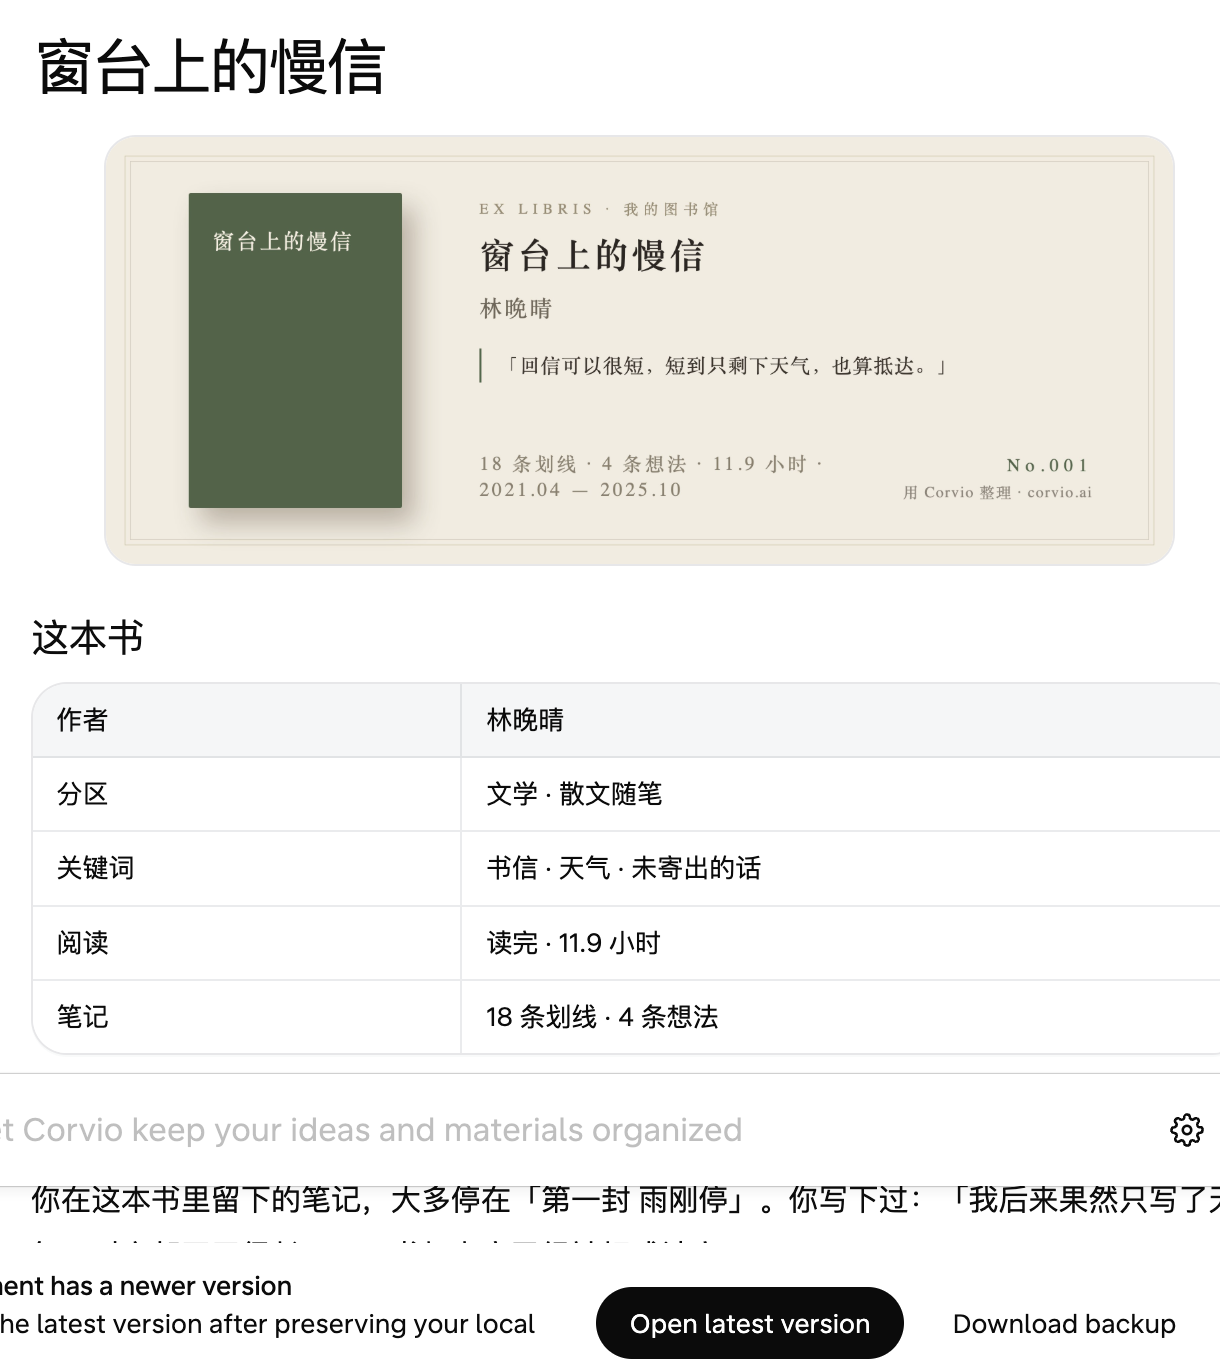
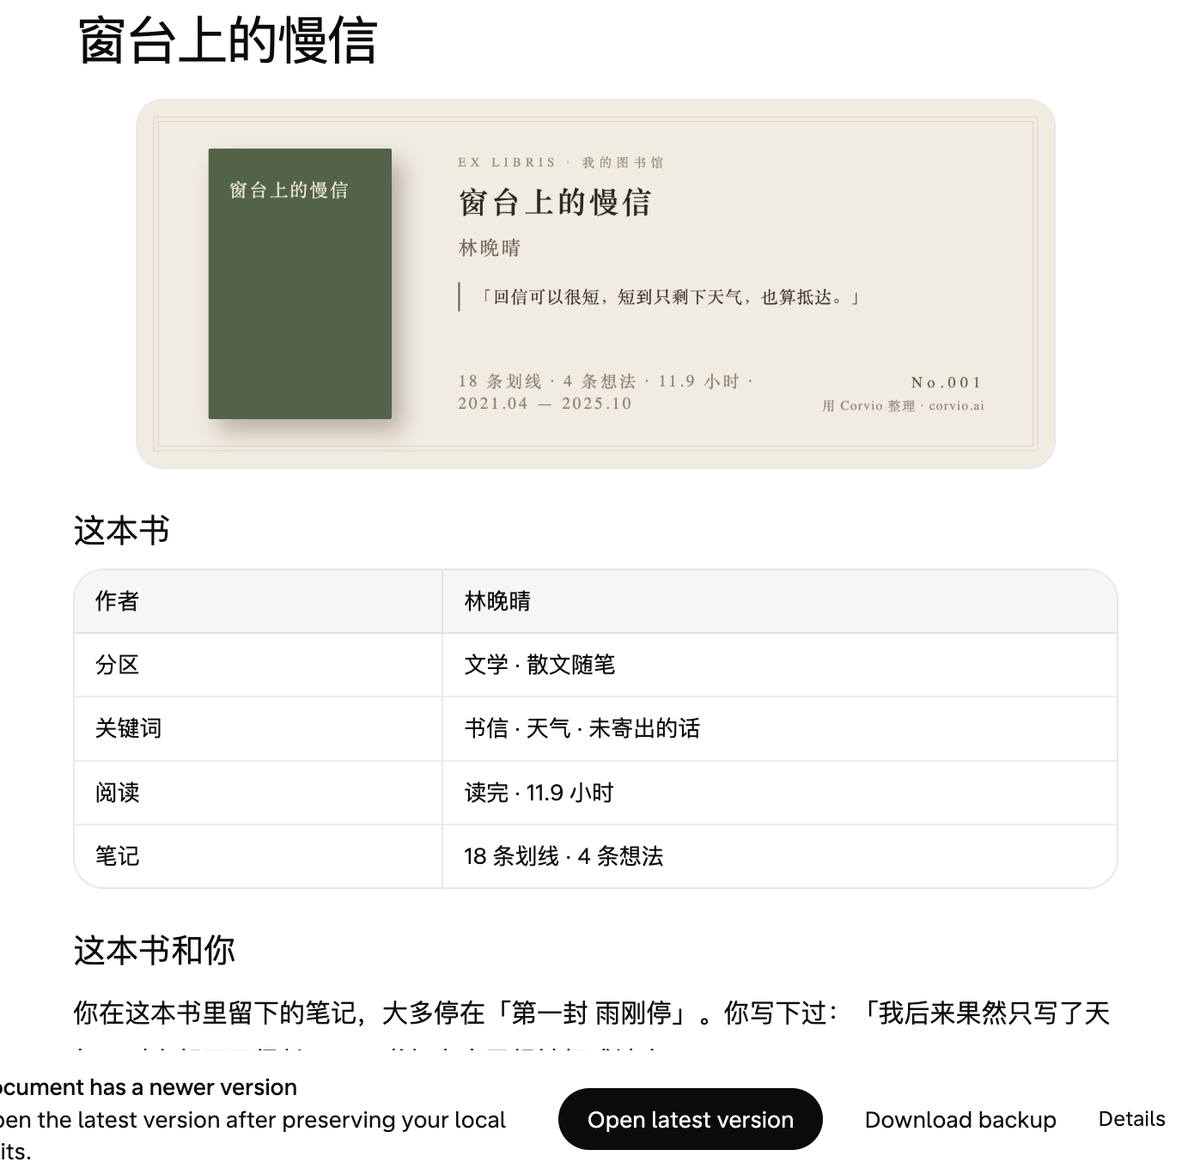
补充截图

diff --git a/scripts/save_key.py b/scripts/save_key.py
@@ -2,9 +2,10 @@
 """从剪贴板读取微信读书 Key，写到 ~/.config/weread-library/key。不会打印 Key。"""
 import argparse, os, re, subprocess, sys
 
-KEY_RE = re.compile(r"wrk-[A-Za-z0-9_.-]+")
+KEY_PREFIX = "".join(map(chr, (119, 114, 107, 45)))
+KEY_RE = re.compile(re.escape(KEY_PREFIX) + r"[A-Za-z0-9_.-]+")
 KEY_PATH = os.path.expanduser("~/.config/weread-library/key")
-MANUAL = ("mkdir -p ~/.config/weread-library && printf '%s' 'wrk-你的Key' "
+MANUAL = (f"mkdir -p ~/.config/weread-library && printf '%s' '{KEY_PREFIX}你的Key' "
           "> ~/.config/weread-library/key && chmod 600 ~/.config/weread-library/key")
 
 
@@ -58,7 +59,7 @@ def main():
         sys.exit(1)
     m = KEY_RE.search(text)
     if not m:
-        print("剪贴板里没有找到以 wrk- 开头的 Key。请在 https://weread.qq.com/r/weread-skills 扫码后点复制，再运行一次。")
+        print("剪贴板里没有找到微信读书 Key。请在 https://weread.qq.com/r/weread-skills 扫码后点复制，再运行一次。")
         sys.exit(1)
     os.makedirs(os.path.dirname(KEY_PATH), exist_ok=True)
     fd = os.open(KEY_PATH, os.O_WRONLY | os.O_CREAT | os.O_TRUNC, 0o600)

diff --git a/scripts/fetch.py b/scripts/fetch.py
@@ -10,13 +10,15 @@ Key 的读取顺序（不会打印 Key）：
   1. 环境变量 WEREAD_API_KEY
   2. --key-file 指定的文件
   3. ~/.config/weread-library/key
-文件里只要含有一段 wrk-... 即可。
+文件里只要含有一段微信读书 Key 即可。
 """
 import argparse, json, os, re, sys, time, urllib.request
 from concurrent.futures import ThreadPoolExecutor
 
 GATEWAY = "https://i.weread.qq.com/api/agent/gateway"
 DEFAULT_KEY_FILE = os.path.expanduser("~/.config/weread-library/key")
+KEY_PREFIX = "".join(map(chr, (119, 114, 107, 45)))
+KEY_RE = re.compile(re.escape(KEY_PREFIX) + r"[A-Za-z0-9_.-]+")
 
 NET_ERR = "网络或接口出错，请稍后重跑"
 
@@ -89,7 +91,7 @@ def find_key(key_file):
         if f and os.path.exists(f):
             cands.append(open(f, encoding="utf-8", errors="ignore").read())
     for c in cands:
-        m = re.search(r"wrk-[A-Za-z0-9_.-]+", c or "")
+        m = KEY_RE.search(c or "")
         if m:
             return m.group(0)
     sys.exit("没有找到微信读书 API Key。请设置环境变量 WEREAD_API_KEY，"

diff --git a/README.md b/README.md
@@ -8,10 +8,13 @@
 
 - **一面书墙**：你留过笔记的书排在一个书架上，书脊越高，读得越久。读过什么，一眼就能看到。
 - **每本书一页**：开头是一张藏书票，印着你在这本书里最舍不得的那句话。往下是 AI 帮你写的一小段回顾，再往下是你所有的划线和想法，按章节排好，翻起来像自己的读书笔记本。
+![藏书票：每本书一张，印着你最舍不得的那句话](assets/plate.jpg)
 - **随时翻，随时加**：以后在微信读书里读了新书、划了新线，说一句「同步一下」，新笔记就会自动放进对应的书里。
 
 ![一本书的页面：藏书票、基本信息、AI 回顾和按章节整理的笔记](assets/book.png)
+![按章节整理的笔记：你最舍不得的那句会被高亮](assets/notes.png)
 
+![总览页：你的阅读数据和整个书架](assets/overview.png)
 ## 它还能让 AI 读懂你读过的书
 
 这座图书馆建在 [Corvio](https://corvio.ai) 上，一个能让 AI 读取你资料的笔记空间。建好之后，你在聊天时可以直接问 AI：
